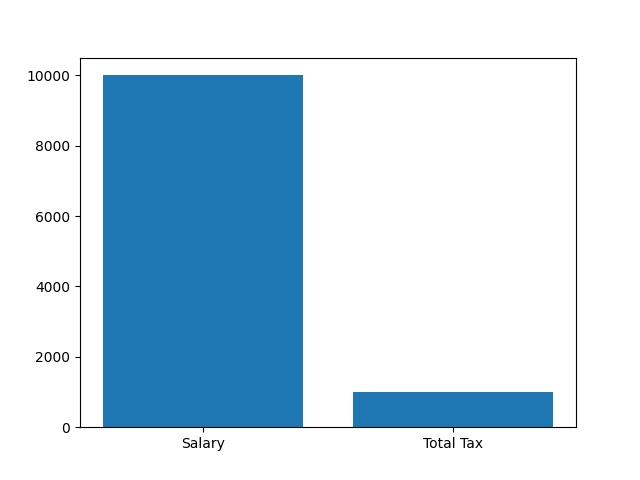
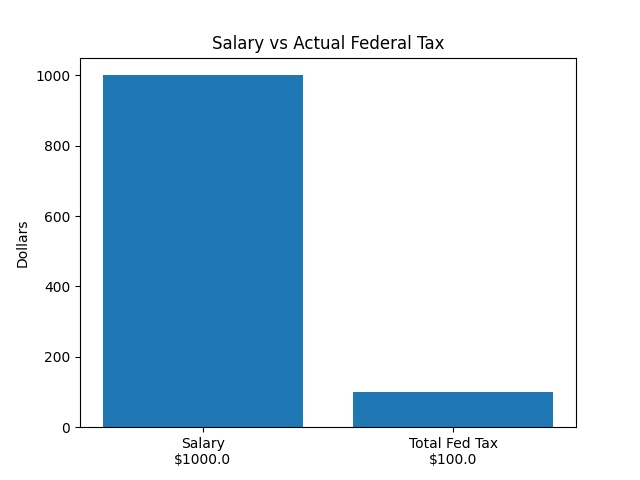
Anthony review
Added some labels to the GUI and color-coordinated the display labels.

diff --git a/main.py b/main.py
@@ -3,25 +3,20 @@ from kivy.properties import StringProperty, AliasProperty
 from kivy.uix.widget import Widget
 from kivy.uix.boxlayout import BoxLayout
 from kivy.uix.button import Button
-from kivy.uix.anchorlayout import AnchorLayout
-from kivy.uix.gridlayout import GridLayout
-from kivy.uix.stacklayout import StackLayout
 import matplotlib.pyplot as plt
-from datetime import datetime
-import os
+
 
 class DaTApp(BoxLayout):
-    #salary = float(input("What is your salary?"))
-    salary = 0 #delete this later
-    max = salary * 2
+
+    salary = 0
+    max = 10000000000000000000
     your_bracket = {}  # this should be empty
     federal_tax = 0
-
-
     image_source = StringProperty('blank.jpg')
     image_name = ""
-
-    now = datetime.now()
+    salary_str = StringProperty("")
+    federal_tax_str = StringProperty("")
+    effective_tax_rate_str = StringProperty("")
 
     single_income_rates = {.1: 9950, .12: 40525, .22: 86375, .24: 164925, .32: 209425, .35: 523600, .37: max}
     married_jointly_income_rates = {.1: 19900, .12: 81050, .22: 172750, .24: 329850, .32: 418850, .35: 628300, .37: max}
@@ -33,7 +28,6 @@ class DaTApp(BoxLayout):
     def on_calculate_clicked(self):
         self.calculate_fed_tax()
         self.generate_graph_image()
-        print(str(self.now))
         self.update_image()
 
 
@@ -53,40 +47,26 @@ class DaTApp(BoxLayout):
 
     def generate_graph_image(self):
         #create a bar graph
-        x = ["Salary", "Total Tax"]
+        x = ["Salary\n" + self.salary_str, "Total Fed Tax\n" + self.federal_tax_str]
         y = [self.salary, self.federal_tax]
-        x0=0
-        y0=0
-        #self.max = self.salary *2
-        #plt.ylim(0,self.max) #set y-axis maximum to double salary
+        plt.ylabel("Dollars")
+        plt.title("Salary vs Actual Federal Tax")
         plt.bar(x, y)
 
-        #generate new image name
-        self.now = datetime.now() #get the current datetime
-        text_now = str(self.now)
-        text_now = text_now.replace('.','') #get rid of periods
-        text_now = text_now.replace(':', '') #get rid of colons
-
-        #save plot as new image
-        #self.image_name = '{}.jpg'.format(text_now)
+        #save graph as new image
         self.image_name = "results.jpg"
         plt.savefig(self.image_name)
-        plt.clf()
+        plt.clf()  #clear matplotlib buffer.  Do this.
 
-        print("new image generated.")
+        #print("new image generated.")
 
     def update_image(self):
-        #print("Image name:" + self.image_name)
-        #self.image_source = StringProperty(self.image_name)
         self.ids.image_id.source = self.image_name
         self.ids.image_id.reload()
-        #os.remove(self.image_name)
 
 
 
     def process_salary_text(self, widget):
-        #this can be bypassed by passing text_input_id.text in the .kv file
-        #text = self.ids.text_input_id.text #i don't understand why this works, but it does.
         self.salary = float(widget.text)
         print(self.salary)
 
@@ -95,12 +75,15 @@ class DaTApp(BoxLayout):
         taxable = []
         working_salary = self.salary
 
+        # make it so that the max value in your_bracket is salary * 2
+        #self.your_bracket[.37] = self.salary * 2 # this breaks my code.
+        #print("New max: "+ str(self.your_bracket[.37]))
+
 
         for x in self.your_bracket:
             if working_salary > 0:
                 if working_salary <= self.your_bracket[x]:
                     taxable.append(working_salary * x)
-                    # print(taxable)
                     break
                 else:
                     taxable.append(self.your_bracket[x] * x)
@@ -109,10 +92,16 @@ class DaTApp(BoxLayout):
                 taxable.append(0)
                 print("Sir, this is a capitalist society.")
                 break
-        self.federal_tax = sum(taxable)
-        #effective_federal_tax_rate = federal_tax / salary * 100
 
-        print("Federal tax: " + str(self.federal_tax))
+        self.federal_tax = sum(taxable) # + (self.salary * .0765)  # .0765 = FICA
+
+
+        self.salary_str = "$" + str(self.salary)
+        self.federal_tax_str = "$" + str(self.federal_tax)
+        self.effective_tax_rate_str = "%" + str(float(self.federal_tax) / float(self.salary) * 100)
+        print("Your Salary: {} \n".format(self.salary_str) +
+              "Your Federal Taxes: {} \n".format(self.federal_tax_str) +
+              "Your Effective Federal Tax Rate: {}".format(self.effective_tax_rate_str))
 
 
 
